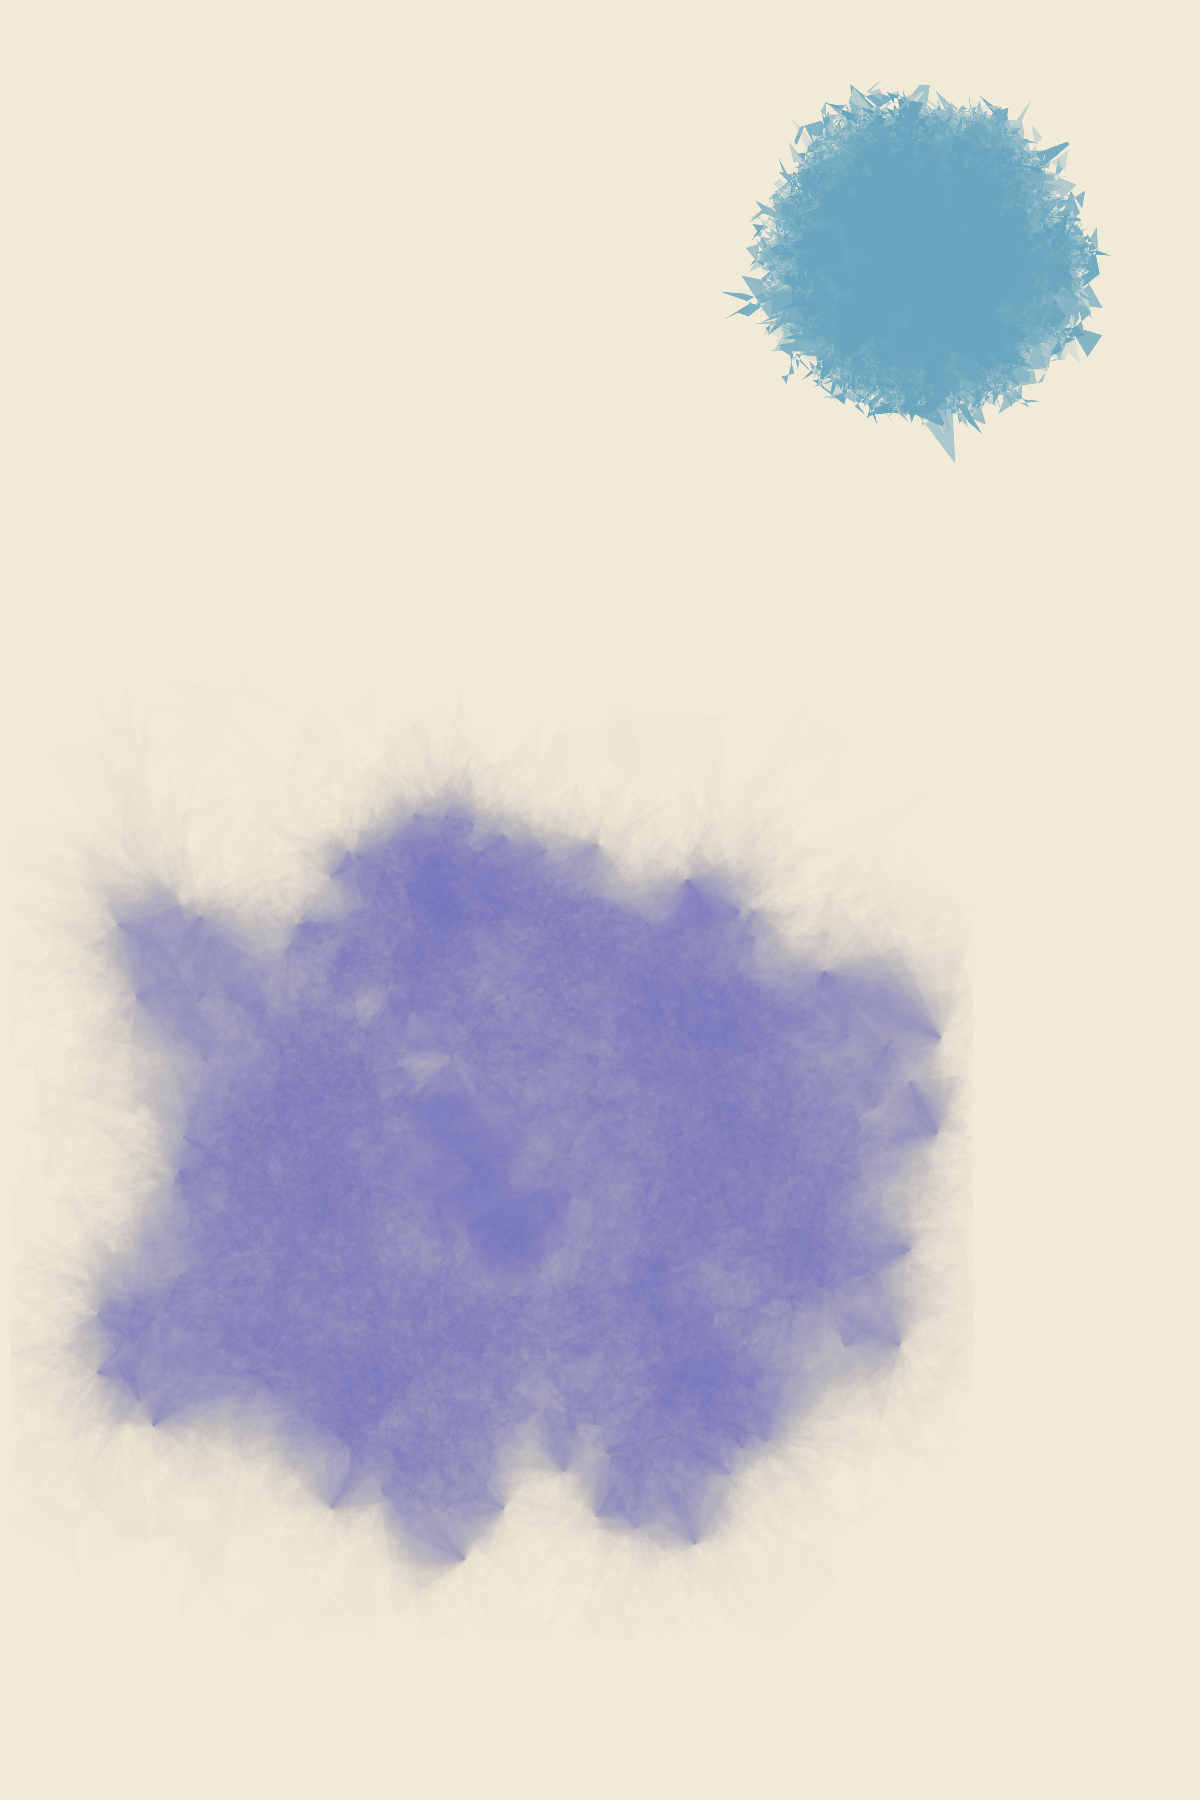
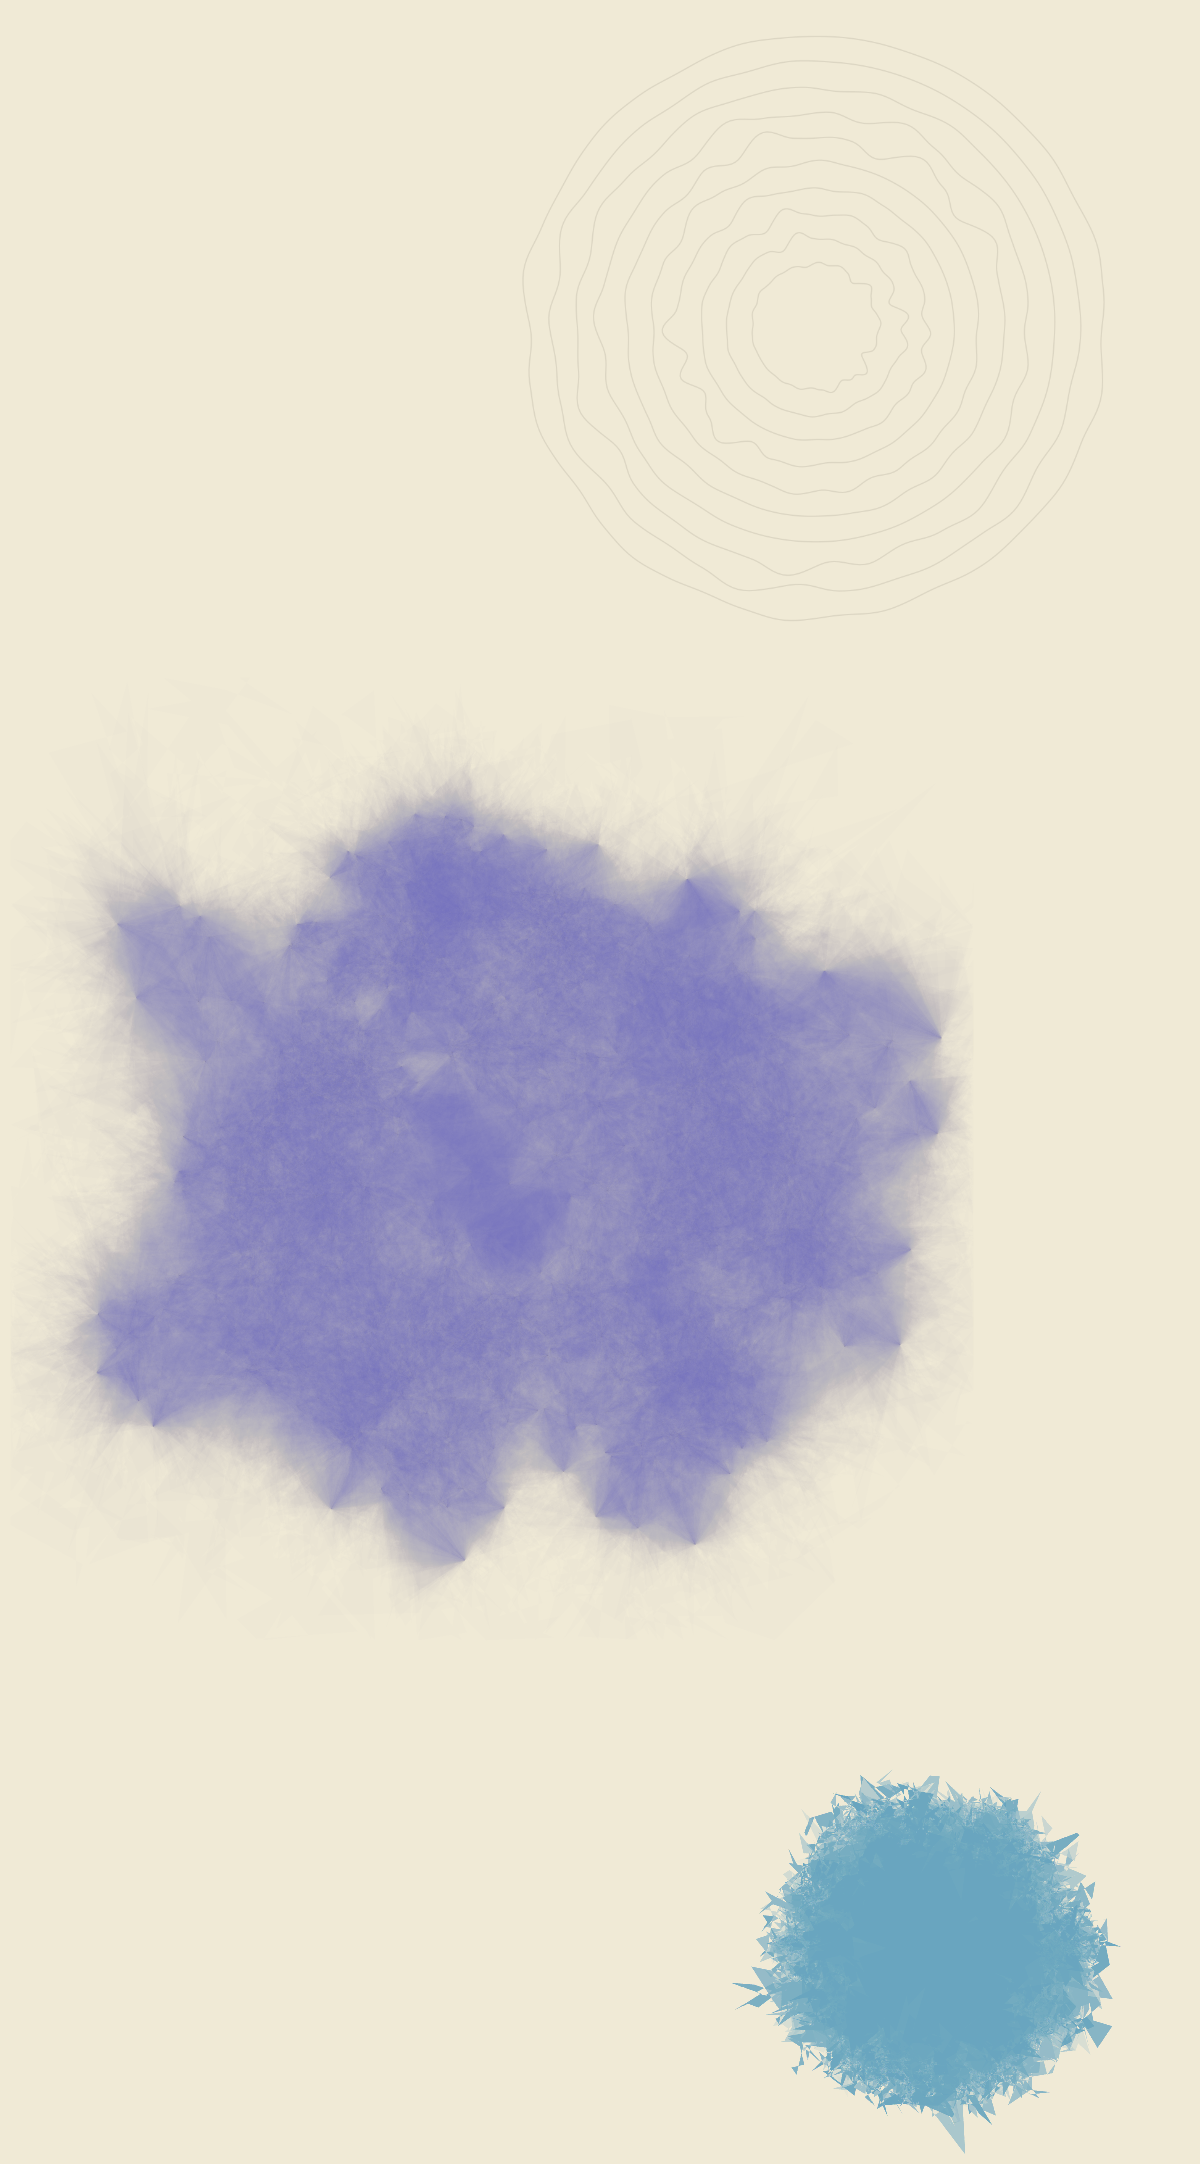
Mostly refactors + new background for main page and minor content tweaks.

Changed region(s): [[0.0308, 0.3422, 0.925, 0.9956], [0.6167, 0.0311, 0.925, 0.2489], [0.3392, 0.5911, 0.37, 0.6222]]

diff --git a/src/components/_Structure.js b/src/components/_Structure.js
@@ -15,24 +15,18 @@ export default class Me extends Component {
 		<div className="Structure flex-container">		
 			<NavBar links={[['Home', '/']]}/>	
 			<Container>
-				<Spacer />
 				<Row>					
 					<Col className='col-12 col-md-6 structure-col'>
 					Shatter
-					<br/><img className='structure-img' src={Gallery0} alt="Gallery-0"></img>
+					<br/><img className='structure-img' src={Gallery0} alt="Gallery-0"></img><br/>
+					Nebula
+					<br/><img className='structure-img' src={Gallery2} alt="Gallery-2"></img><br/>
 					</Col>
 					<Col className='col-12 col-md-6 structure-col'>
 					Watercolour
-					<br/><img className='structure-img' src={Gallery1} alt="Gallery-1"></img>
-					</Col>
-					</Row><Row>
-					<Col className='col-12 col-md-6 structure-col'>
-					Nebula
-					<br/><img className='structure-img' src={Gallery2} alt="Gallery-2"></img>
-					</Col>
-					<Col className='col-12 col-md-6 structure-col'>
+					<br/><img className='structure-img' src={Gallery1} alt="Gallery-1"></img><br/>
 					Circles
-					<br/><img className='structure-img' src={Gallery3} alt="Gallery-3"></img>
+					<br/><img className='structure-img' src={Gallery3} alt="Gallery-3"></img><br/>
 					</Col>
 				</Row>
 				<Spacer />

diff --git a/src/components/Footer.js b/src/components/Footer.js
@@ -1,22 +1,18 @@
 import React, { Component } from 'react';
 import footerSplash from '../splash-footer-stylish.png';
-import { Container, Row, Col } from 'reactstrap';
+import { Row, Col } from 'reactstrap';
 
 export default class Footer extends Component {
   render() {
     return (
-		<Container>	
-			<Row>
-				<Col>
-				<br/>
-				</Col>
-			</Row>
-			<Row className="align-items-center flex-container Footer">
+		<div className="section Footer">
+			<br/>
+			<Row className="align-items-center flex-container">
 				<Col className="col-12 col-md-6">
 					<img src={footerSplash} className="footer-pic" alt="Footer"></img>
 				</Col>
 				<Col className="col-12 col-md-6">
-					<h2><strong>Get in touch!</strong></h2>
+					<h2>It's cold out there.<br/><strong>Get in touch!</strong></h2>
 					<h3>
 					  <a href="https://linkedin.com/in/dario-mavec" target="_blank" rel="noopener noreferrer"><i className="fab fa-linkedin i-hov"/></a>  
 					  <a href="https://github.com/dariomavec" target="_blank" rel="noopener noreferrer"><i className="fab fa-github-square i-hov"/></a>  
@@ -29,7 +25,7 @@ export default class Footer extends Component {
 					</p>
 				</Col>
 			</Row>
-		</Container>
+		</div>
     );
   }
 }

diff --git a/src/components/_Strife.js b/src/components/_Strife.js
@@ -52,7 +52,6 @@ export default class Strife extends Component {
 		});
 				
 		fetch("https://mavec.pythonanywhere.com/games.json/?player__player_name=" + playerName.toLowerCase())
-		//fetch("http://localhost:8080/games.json/?player__player_name=" + playerName.toLowerCase())
 		  .then(res => res.json())
 		  .then(
 			(result) => {
@@ -143,19 +142,14 @@ export default class Strife extends Component {
 		  else {
 			  gameData = {};
 			  gameGraph = null;
-			  gameTitle = ""
+			  gameTitle = "Select a player to see game data"
 		  }
 			  			
 		  return (
 		  <div className="Structure flex-container">
 		  <NavBar links={[['Home', '/']]}/>	
 		  <Container>
-			  <Row>
-				  <Col>
-				  <h1>Strife</h1>
-				  </Col>
-			  </Row>
-			  <Row>
+			  <Row className="align-items-center" style={{paddingBottom: '10px'}}>
 				  <Col>
 					<PlayerDropdown 
 						players={items.map(item => item.player_tidy)} 
@@ -165,11 +159,6 @@ export default class Strife extends Component {
 				  <Col>
 				  Check out the REST API <a href="http://mavec.pythonanywhere.com/">here</a>.
 				  </Col>
-			  </Row>
-			  <Row>
-				<Col>
-				 <br/>
-				</Col>
 			  </Row>
 			  <Row>
 				<Col className='col-12 col-md-6'>

diff --git a/src/components/NavBar.js b/src/components/NavBar.js
@@ -25,17 +25,18 @@ export default class NavBar extends React.Component {
   render() {
     return (
       <div>
-        <Navbar color="dark" dark fixed expand="md" className="navbar-dark fixed-top">
+        <Navbar color="dark" expand="md" className="navbar-dark fixed-top">
           <NavbarBrand href="/" className="nav-name"><h1>D/M</h1></NavbarBrand>
           <NavbarToggler onClick={this.toggle} />
           <Collapse isOpen={this.state.isOpen} navbar>
             <Nav className="ml-auto" navbar>				
-				  {this.props.links.map(function(listValue){
-					return <NavItem> <NavLink href={listValue[1]} className="nav-item"><h1>{listValue[0]}</h1></NavLink></NavItem>;
+				  {this.props.links.map(function(listValue, i){
+					return <NavItem key={i}> <NavLink href={listValue[1].toString()} className="nav-item"><h1>{listValue[0]}</h1></NavLink></NavItem>;
 				  })}          
             </Nav>
           </Collapse>
         </Navbar>
+		<p><br/><br/></p>
       </div>
     );
   }

diff --git a/src/components/Welcome.js b/src/components/Welcome.js
@@ -1,12 +1,11 @@
 import React, { Component } from 'react';
 import mainpic from '../splash-crop-transparent.png';
-import { Container, Row, Col } from 'reactstrap';
+import { Row, Col } from 'reactstrap';
 
 export default class Welcome extends Component {
   render() {
     return (
-	<div className="Welcome">
-     <Container className="flex-container">
+	<div className="Welcome" style={{marginTop: '50px'}}>
 		<Row className="align-items-center">
 			<Col className="col-12 col-md-5">
 				<img src={mainpic} className="main-pic" alt="Main Splash"></img>
@@ -28,7 +27,6 @@ export default class Welcome extends Component {
 				</h2>
 			</Col>
 		</Row>
-	</Container>
 	</div>
     );
   }

diff --git a/src/components/About.js b/src/components/About.js
@@ -1,11 +1,10 @@
 import React, { Component } from 'react';
-import { Container, Row, Col } from 'reactstrap';
+import { Row, Col } from 'reactstrap';
 
 export default class About extends Component {
   render() {
     return (
       <div className="About section">
-		<Container>
 			<Row>
 				<Col>
 				<br/>
@@ -33,7 +32,7 @@ export default class About extends Component {
 				<p>Developed use cases leveraging a wide range of statistical techniques from supervised (logistic, random forest, model matrix approaches) to unsupervised (k-means, hierarchical, PCA) and more!</p>
 				</Col>
 			</Row>
-		</Container>
+		
       </div>
     );
   }

diff --git a/src/App.js b/src/App.js
@@ -2,15 +2,13 @@ import React from 'react';
 import Me from './components/_Me';
 import Strife from './components/_Strife';
 import Structure from './components/_Structure';
-import './App.css'
+import './App.css';
 import { Switch, Route } from 'react-router-dom';
 
-const App = () => (
+export default () => (
 	<Switch>
       <Route exact path='/' component={Me}/>
       <Route exact path='/strife' component={Strife}/>
 	  <Route exact path='/structure' component={Structure}/>
     </Switch>
 );
-
-export default App;

diff --git a/src/components/Projects.js b/src/components/Projects.js
@@ -1,11 +1,10 @@
 import React, { Component } from 'react';
-import { Container, Row, Col, Jumbotron, Button } from 'reactstrap';
+import { Row, Col, Jumbotron, Button } from 'reactstrap';
 
 export default class Projects extends Component {
   render() {
     return (
       <div className="Projects section">
-		<Container>
 			<Row>
 				<Col>
 					<br/>
@@ -46,7 +45,6 @@ export default class Projects extends Component {
 
 				</Col>
 			</Row>
-		</Container>
       </div>
     );
   }

diff --git a/src/App.css b/src/App.css
@@ -9,8 +9,8 @@
 }
 
 .structure-img {
-    width: 100%;
-    height: auto;
+  width: 100%;
+  height: auto;
 }
 
 .App {
@@ -67,7 +67,7 @@ p {
 }
 
 .section {
-  padding: 0px;
+  padding: 0px 15px;
   background-color: grey;
 }
 
@@ -184,13 +184,18 @@ p {
   color: black;
 }
 
+.Footer strong {
+	color: #F27935;
+}
+
 .Footer .i-hov:hover {
   color: #F27935;
   display: inline-block;
 }
 
 .footer-pic {
-  width: 45vh;
+  width: 75%;
+  height: auto;
   padding: 10px;
 }
 

diff --git a/src/components/NullChart.js b/src/components/NullChart.js
@@ -1,19 +1,10 @@
 import React, { Component } from 'react';
-import { Container, Row, Col } from 'reactstrap';
-
 
 export default class NullChart extends Component {	
 	render() {	
     return (
-	  <Container>
-	   <Row>
-		<Col className='block'>
-			<br/>
-			<h1>Select a player</h1>
-			<br/>
-		</Col>	   
-	   </Row>	  
-	  </Container>
+	  <div>
+	  </div>
     );
   }
 };

diff --git a/src/components/PlayerDropdown.js b/src/components/PlayerDropdown.js
@@ -9,13 +9,11 @@ export default class PlayerDropdown extends React.Component {
     this.state = {
       dropdownOpen: false
     };
-	// console.log(this.props.name);
 	this.handlePlayerChange = this.handlePlayerChange.bind(this);
   }
 
   handlePlayerChange(e) {
     this.props.onDropdownChange(e.target.textContent);
-	// console.log(this.props.name);
   }
   
   toggle() {

diff --git a/src/components/_Me.js b/src/components/_Me.js
@@ -13,8 +13,6 @@ export default class Me extends Component {
 		<div className="App">		
 			<NavBar links={[['About', '#about'], ['Projects', '#projects']]}/>
 			<Container>
-				<Spacer />
-				<Spacer />
 				<Welcome />	
 				<Spacer id="about"/>
 				<Spacer/>
